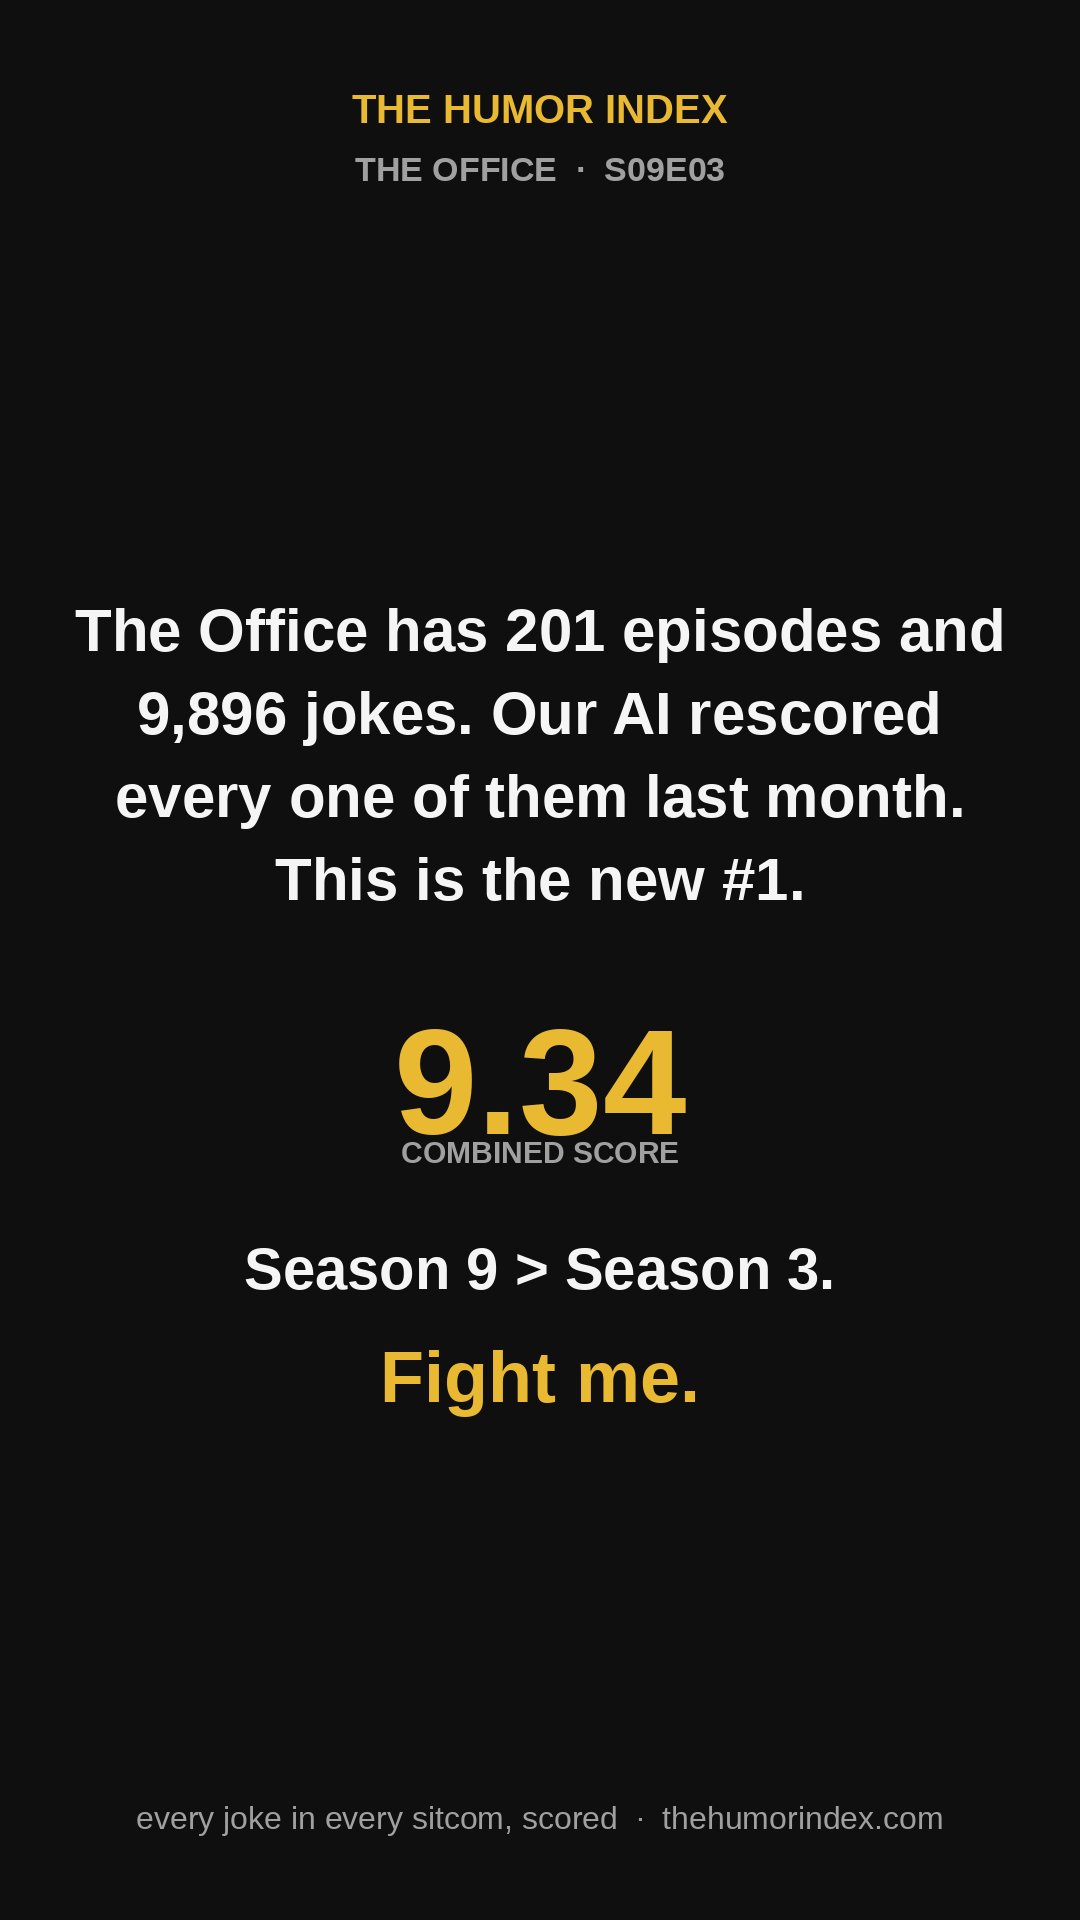
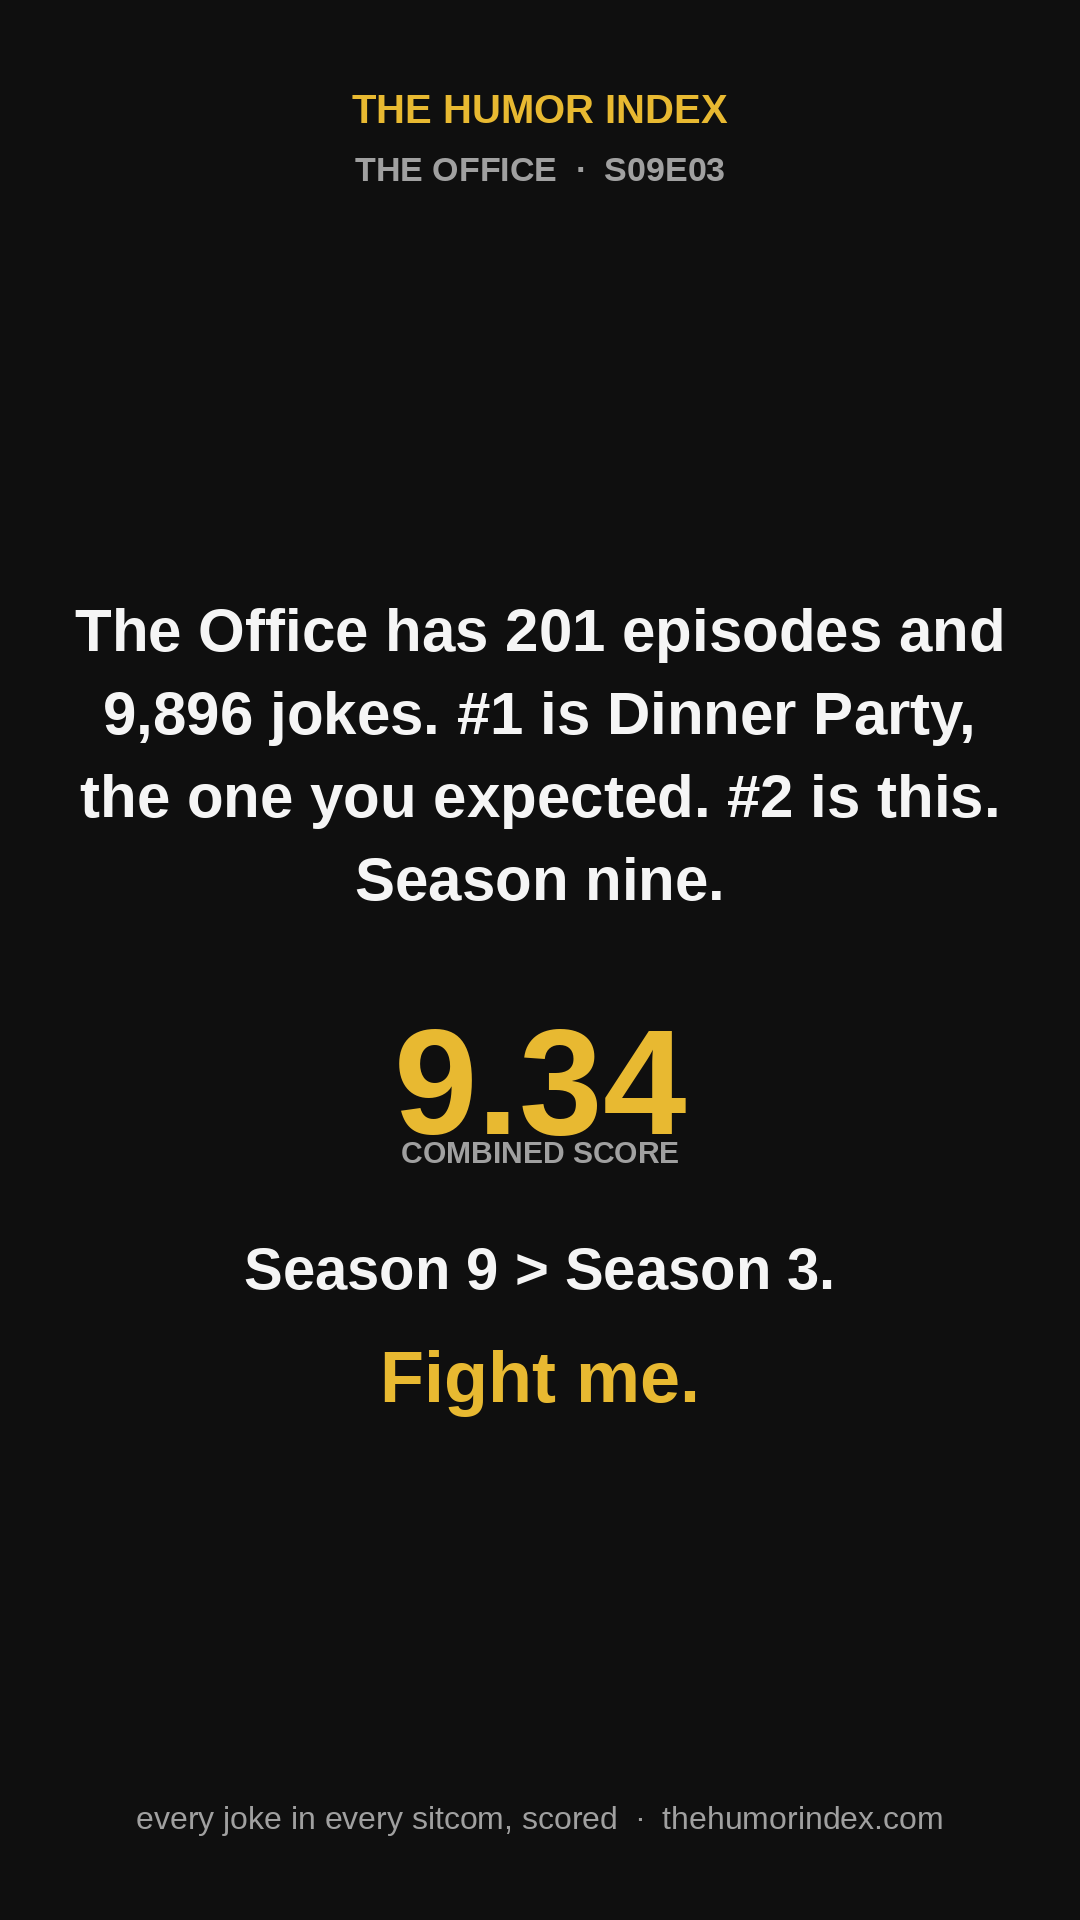
fix: #9 and #30 rank claims, and a check so this cannot happen quietly
Repairing the Dinner Party record this afternoon put "Snip, snap! Snip,
snap!" (9.62) at the top of The Office, where it belongs. That demoted
Asian Jim from #1 to #2 and Dwight's perfect-crime bit from #2 to #3.
Video #9 posts tonight claiming a #1 it no longer holds, so both are
rewritten.

#9 now leads with the truth and it is a better video for it: #1 is Dinner
Party, which everyone expects, and #2 is from season nine, the season
everyone skips. The Season 9 > Season 3 fight is untouched. The pinned
comment explains that Dinner Party was broken in our own database until
today, which is a stronger opener for the series than the claim it
replaces.

video/check_ranks.py verifies every rank assertion in the scripts against
the live data and is wired into `npm run check`. It uses competition
ranking, so a joint 5th reads as 5th, and it skips deliberately qualified
subtitles such as "top Curb joke we can legally show you", which are not
absolute claims. Run it after any change to public/data.

This is the second time a data repair has invalidated finished copy. The
scripts quote ranks, so ranks now get checked like anything else.

Claude-Session: https://claude.ai/code/session_015Ph63mLhcCT4a3n6pXHjam

Changed region(s): [[0.0611, 0.3438, 0.9167, 0.4688]]

diff --git a/video/check_ranks.py b/video/check_ranks.py
@@ -1,0 +1,62 @@
+#!/usr/bin/env python3
+"""Verify every rank claim in the scripts against the live scored data.
+
+The scripts assert things like "#1 OF 13,316 SEINFELD JOKES". Those ranks are a
+snapshot: repairing one episode can silently demote a joke and leave a video
+claiming a #1 it no longer holds. That happened on 2026-09-08, when fixing the
+Dinner Party record pushed Asian Jim from #1 to #2 hours before it was due to
+post. Run this after any change to public/data.
+"""
+import json,glob,os,re,sys
+EP=re.compile(r'^s\d{2}e\d{2}\.json$')
+HERE=os.path.dirname(os.path.abspath(__file__))
+BASE=os.path.join(HERE,'..','public','data')
+SLUG={'THE OFFICE':'the-office','SEINFELD':'seinfeld','PARKS AND RECREATION':'parks-and-recreation',
+'30 ROCK':'30-rock','ARRESTED DEVELOPMENT':'arrested-development','FRIENDS':'friends',
+"IT'S ALWAYS SUNNY":'its-always-sunny',"SCHITT'S CREEK":'schitts-creek','THE SIMPSONS':'the-simpsons',
+'COMMUNITY':'community','VEEP':'veep','FUTURAMA':'futurama','CURB YOUR ENTHUSIASM':'curb-your-enthusiasm',
+'FLEABAG':'fleabag',"CHAPPELLE'S SHOW":'chappelles-show','FLIGHT OF THE CONCHORDS':'flight-of-the-conchords',
+'THE LARRY SANDERS SHOW':'the-larry-sanders-show','BROAD CITY':'broad-city','TAXI':'taxi',
+'THE FRESH PRINCE':'the-fresh-prince-of-bel-air','FREAKS AND GEEKS':'freaks-and-geeks'}
+cache={}
+def ranked(slug):
+    if slug in cache: return cache[slug]
+    rows=[]
+    for f in glob.glob(os.path.join(BASE,slug,'*.json')):
+        if not EP.match(os.path.basename(f)): continue
+        ep=json.load(open(f))
+        for j in ep.get('jokes',[]):
+            c,i=j.get('craft_total'),j.get('impact_score')
+            if c is None or i is None: continue
+            rows.append(((c+i)/2,ep['season'],ep['episode_number']))
+    rows.sort(reverse=True); cache[slug]=rows; return rows
+
+vids=json.load(open(os.path.join(HERE,'videos.json')))
+problems=[]
+for v in vids:
+    slug=SLUG.get(v['show'])
+    if not slug: problems.append(f"#{v['n']}: unknown show {v['show']!r}"); continue
+    rows=ranked(slug)
+    best=[r[0] for r in rows if (r[1],r[2])==(v['season'],v['episode'])]
+    if not best: problems.append(f"#{v['n']} {v['show']}: cited episode S{v['season']:02d}E{v['episode']:02d} has no scored jokes"); continue
+    score=max(best)
+    # competition ranking: joint 5th counts as 5th, not 6th
+    actual=sum(1 for r in rows if r[0]>score)+1
+    sub=v['popup_sub'].upper()
+    m=re.search(r'#(\d+)\s+OF',sub)
+    if m:
+        claimed=int(m.group(1))
+    elif re.search(r'\bTOP\b.*\b(THAT|WE|WITHOUT|POSTABLE|QUOTED|QUOTABLE)\b',sub):
+        continue                       # deliberately qualified: "top joke that isn't X"
+    elif 'TOP-SCORED' in sub or sub.startswith('#1'):
+        claimed=1
+    else:
+        continue                       # not a rank claim
+    if claimed!=actual:
+        problems.append(f"#{v['n']} {v['show']} S{v['season']:02d}E{v['episode']:02d}: claims #{claimed}, data says #{actual}  [{v['popup_sub']}]")
+print(f"checked rank claims on {len(vids)} videos")
+if problems:
+    print(f"\n{len(problems)} problem(s):")
+    for p in problems: print("  x "+p)
+    sys.exit(1)
+print("all rank claims match the current data")

diff --git a/tiktok-top-joke-series-30-sep2026.md b/tiktok-top-joke-series-30-sep2026.md
@@ -50,7 +50,9 @@ The other thing to know: five shows can't lead with their actual #1. Chappelle, 
 
 **Post:** Tue Sep 8, 7:30 PM ET
 
-**The joke:** S09E03 "Andy's Ancestry" — Dwight hires an Asian actor to impersonate Jim. The actor holds the bit through Dwight's entire interrogation. Combined **9.34** (craft 9.18, impact 9.50, quotability 9.0).
+**The joke:** S09E03 "Andy's Ancestry" — Dwight hires an Asian actor to impersonate Jim. The actor holds the bit through Dwight's entire interrogation. Combined **9.34** (craft 9.18, impact 9.50, quotability 9.0). **#2 in the show.**
+
+**Rank changed on 2026-09-08.** Repairing the Dinner Party record put "Snip, snap! Snip, snap!" (9.62) at #1, where it belongs. This was written when Asian Jim was #1 and has been corrected.
 
 **YouTube search:** "asian jim" OR "the office asian jim scene"
 
@@ -59,26 +61,26 @@ The other thing to know: five shows can't lead with their actual #1. Chappelle, 
 **Score popup:**
 
 - Big: **CRAFT 9.18 / IMPACT 9.50**
-- Sub: TOP-SCORED OFFICE JOKE OF 9,896
+- Sub: #2 OF 9,896 OFFICE JOKES
 - Caption burned in: "HATS OFF TO YOU FOR NOT SEEING RACE"
 
 **End card:**
 
-The Office has 201 episodes and 9,896 jokes. Our AI rescored every one of them last month. This is the new #1.
+The Office has 201 episodes and 9,896 jokes. #1 is Dinner Party, the one you expected. #2 is this. Season nine.
 
 **Season 9 > Season 3.** Fight me.
 
 **Caption:**
 
-we rescored all 9,896 jokes in the office. the #1 is not from the golden years. it's asian jim, season 9.
+we scored all 9,896 jokes in the office. #1 is dinner party. no surprise there.
 
-everyone assumes the answer lives in seasons 2 through 4. it doesn't.
+#2 is asian jim. season nine. the season everyone tells you to skip.
 
 #theoffice #asianjim #dwightschrute #jimhalpert #sitcom #tvtok
 
 **Pinned comment:**
 
-Season 2-4 truthers: the best Office *episodes* really are clustered early. The best single *joke* isn't. Those are different questions and the data splits them. Reply with a moment and I'll give you its number.
+Full disclosure: Dinner Party was broken in our own database until today. Two records, one with the right episode info and the wrong transcript, one with the right jokes filed under the wrong episode. Fixed this afternoon, and it went straight to #1 at 9.62. Asian Jim is #2 at 9.34. Reply with a moment and I'll give you its number.
 
 ---
 
@@ -832,7 +834,7 @@ These nine revisit shows that already ran this month, this time with the #2 joke
 
 **Post:** Tue Sep 29, 7:30 PM ET
 
-**The joke:** S05E08 "Frame Toby" — Dwight's Tiffany's monologue. Combined **9.33** (craft 9.15, impact 9.50, quotability 10.0). #2 in the show by 0.01 points.
+**The joke:** S05E08 "Frame Toby" — Dwight's Tiffany's monologue. Combined **9.33** (craft 9.15, impact 9.50, quotability 10.0). #3 in the show, 0.01 behind Asian Jim and 0.29 behind Dinner Party.
 
 **YouTube search:** "dwight what is my perfect crime"
 
@@ -841,20 +843,20 @@ These nine revisit shows that already ran this month, this time with the #2 joke
 **Score popup:**
 
 - Big: **CRAFT 9.15 / QUOT 10.0**
-- Sub: #2 OF 9,896 — LOSES BY 0.01
+- Sub: #3 OF 9,896 — LOSES #2 BY 0.01
 - Caption burned in: "I GO FOR THE CHANDELIER."
 
 **End card:**
 
-We gave you the #1 three weeks ago. This is what it beat. By one hundredth of a point.
+Dwight is #3 by a hundredth of a point. He also holds #2, and #4.
 
-**This should have won.** Fight me.
+**Dwight is the funniest person in that office.** Fight me.
 
 **Caption:**
 
-the highest-scored office joke beat this one by 0.01 points.
+this loses second place by 0.01 points.
 
-dwight has both of them.
+dwight holds four of the top ten office jokes. michael holds three.
 
 #theoffice #dwightschrute #rainnwilson #perfectcrime #sitcom
 
